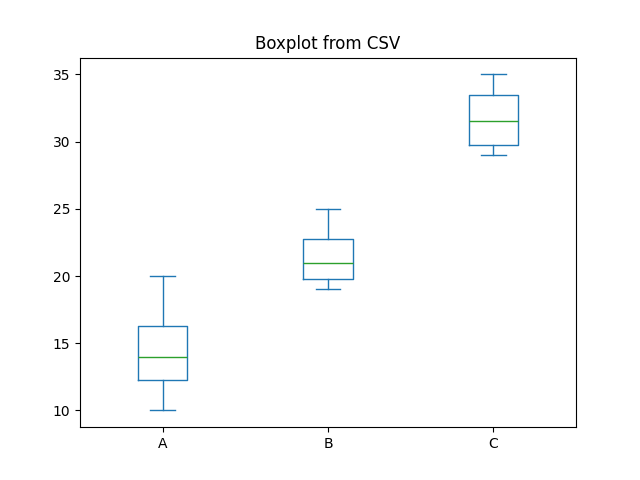
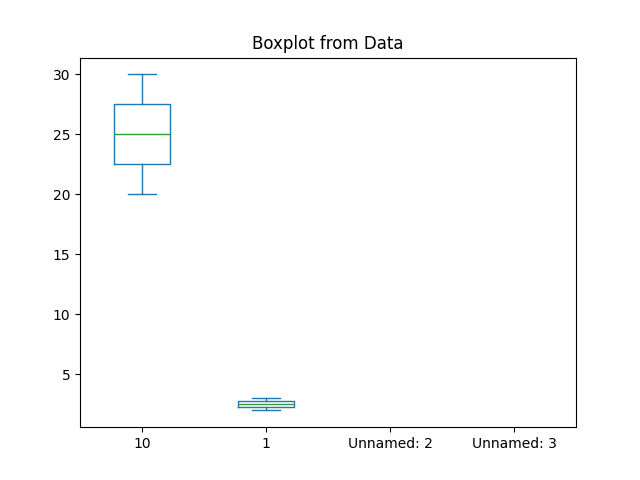
一時関数描画アプリ

diff --git a/templates/index.html b/templates/index.html
@@ -1,22 +1,57 @@
 <!DOCTYPE html>
 <html>
   <head>
-    <title>箱ひげ図アプリ</title>
+    <title>一次関数描画アプリ</title>
     <link
       rel="stylesheet"
       href="{{ url_for('static', filename='style.css') }}"
     />
+    <script>
+      function updateValue(id, value) {
+        document.getElementById(id).innerText = value;
+      }
+    </script>
   </head>
   <body>
-    <h1>CSVをアップロードして箱ひげ図を描画</h1>
-    <form method="POST" enctype="multipart/form-data">
-      <input type="file" name="csv_file" accept=".csv" required />
-      <button type="submit">アップロード</button>
+    <h1>一次関数を描画</h1>
+    <form method="POST">
+      <label for="slope">傾き (slope):</label>
+      <input
+        type="range"
+        id="slope"
+        name="slope"
+        min="-10"
+        max="10"
+        step="0.1"
+        value="{{ slope }}"
+        oninput="updateValue('slopeValue', this.value)"
+      />
+      <span id="slopeValue">{{ slope }}</span>
+      <br />
+
+      <label for="intercept">切片 (intercept):</label>
+      <input
+        type="range"
+        id="intercept"
+        name="intercept"
+        min="-10"
+        max="10"
+        step="0.1"
+        value="{{ intercept }}"
+        oninput="updateValue('interceptValue', this.value)"
+      />
+      <span id="interceptValue">{{ intercept }}</span>
+      <br />
+
+      <button type="submit">描画</button>
     </form>
 
     {% if image_url %}
     <h2>描画結果：</h2>
-    <img src="{{ url_for('static', filename=image_url) }}" alt="boxplot" />
+    <img
+      src="{{ url_for('static', filename=image_url) }}"
+      alt="linear function plot"
+    />
     {% endif %}
   </body>
 </html>

diff --git a/static/style.css b/static/style.css
@@ -6,9 +6,62 @@ body {
 
 form {
     margin-bottom: 20px;
+    padding: 20px;
+    border: 1px solid #ccc;
+    background-color: #fff;
+    border-radius: 8px;
+}
+
+textarea {
+    display: block;
+    margin-top: 10px;
+    width: 100%;
+    font-family: monospace;
+}
+
+label {
+    font-weight: bold;
+    margin-right: 10px;
+}
+
+input[type="range"] {
+    width: 300px;
+    margin: 10px 0;
+}
+
+table {
+    margin-top: 10px;
+    border-collapse: collapse;
+    width: 100%;
+}
+
+table td {
+    border: 1px solid #ccc;
+    padding: 5px;
+    text-align: center;
+}
+
+table input {
+    width: 100%;
+    box-sizing: border-box;
+}
+
+button {
+    margin-top: 10px;
+    padding: 10px 20px;
+    background-color: #007bff;
+    color: #fff;
+    border: none;
+    border-radius: 4px;
+    cursor: pointer;
+}
+
+button:hover {
+    background-color: #0056b3;
 }
 
 img {
     max-width: 600px;
     border: 1px solid #ccc;
+    margin-top: 20px;
 }

diff --git a/app.py b/app.py
@@ -1,6 +1,6 @@
 from flask import Flask, render_template, request
-import pandas as pd
 import matplotlib.pyplot as plt
+import numpy as np
 import os
 
 app = Flask(__name__)
@@ -10,20 +10,27 @@ app.config['UPLOAD_FOLDER'] = UPLOAD_FOLDER
 @app.route('/', methods=['GET', 'POST'])
 def index():
     image_url = None
+    slope = 1  # Initial value
+    intercept = 0  # Initial value
     if request.method == 'POST':
-        file = request.files['csv_file']
-        if file and file.filename.endswith('.csv'):
-            df = pd.read_csv(file)
+        slope = float(request.form.get('slope', 1))
+        intercept = float(request.form.get('intercept', 0))
+        x = np.linspace(-10, 10, 500)
+        y = slope * x + intercept
+        plt.figure()
+        plt.plot(x, y, label=f"y = {slope}x + {intercept}")
+        plt.axhline(0, color='black', linewidth=0.5, linestyle='--')
+        plt.axvline(0, color='black', linewidth=0.5, linestyle='--')
+        plt.title("Linear Function Plot")  # Title in English
+        plt.xlabel("x")  # x-axis label in English
+        plt.ylabel("y")  # y-axis label in English
+        plt.legend()
+        path = os.path.join(app.config['UPLOAD_FOLDER'], 'linear_function_plot.png')
+        plt.savefig(path)
+        plt.close()
+        image_url = 'linear_function_plot.png'
 
-            plt.figure()
-            df.plot.box()
-            plt.title("Boxplot from CSV")
-            path = os.path.join(app.config['UPLOAD_FOLDER'], 'boxplot.png')
-            plt.savefig(path)
-            plt.close()
-            image_url = 'boxplot.png'
-
-    return render_template('index.html', image_url=image_url)
+    return render_template('index.html', image_url=image_url, slope=slope, intercept=intercept)
 
 if __name__ == '__main__':
-    app.run(debug=True)
+    app.run(debug=False, host='0.0.0.0')
